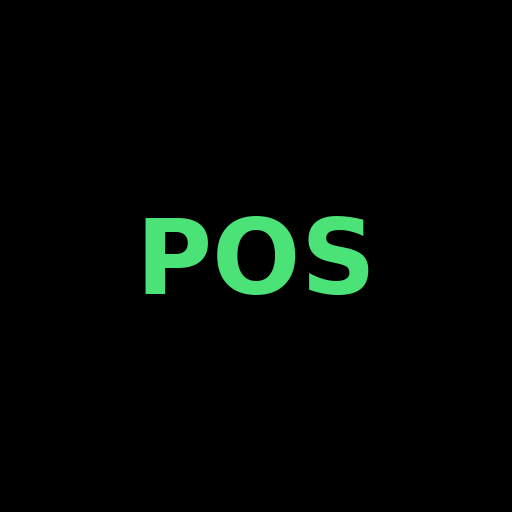
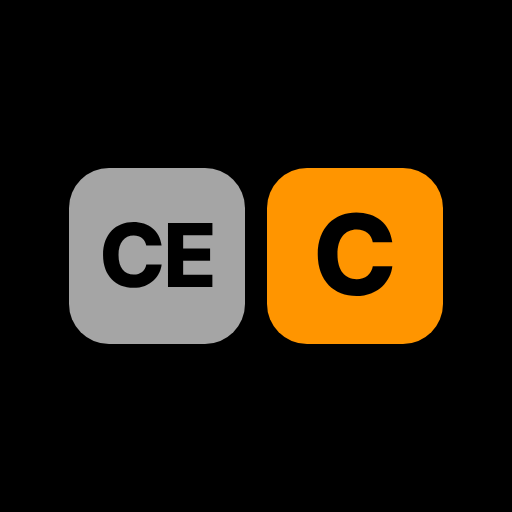
feat: nombre Cece Calc, ícono CE+C y copy simplificado
- Nombre: Cece Calc (título, manifest, iOS)
- Ícono nuevo: teclas CE (gris) y C (naranja) dentro de la zona segura maskable
- Copy: botón 'Recibido'; descripción del manifest sin tecnicismos
- Caché del SW a v7

Claude-Session: https://claude.ai/code/session_0143iFb2Kerjt7kfek1WfLzz

Changed region(s): [[0.125, 0.3125, 0.875, 0.6875]]

diff --git a/sw.js b/sw.js
@@ -1,5 +1,5 @@
 /* ============================================================
-   CECE — Service Worker
+   CECE CALC — Service Worker
    Estrategia: CACHE-FIRST ESTRICTA (100% offline / modo avión)
    ------------------------------------------------------------
    - install  : precarga todos los recursos locales de la app.
@@ -12,7 +12,7 @@
 /* IMPORTANTE: al cambiar cualquier archivo de la app hay que subir esta
    versión (v1 → v2 → …); con cache-first estricto el navegador seguirá
    sirviendo la copia antigua hasta que cambie el nombre de la caché. */
-const CACHE_NAME = 'pos-feria-v6';
+const CACHE_NAME = 'pos-feria-v7';
 
 /* Recursos locales imprescindibles. Todos relativos: funcionan tanto en
    file:// como servidos desde un subdirectorio (scope "./"). */
@@ -91,7 +91,7 @@ self.addEventListener('fetch', (event) => {
   event.respondWith(
     (async () => {
       if (url.origin !== self.location.origin || request.method !== 'GET') {
-        return new Response('Solicitud bloqueada: Cece funciona sin red.', {
+        return new Response('Solicitud bloqueada: Cece Calc funciona sin red.', {
           status: 503,
           statusText: 'Offline',
           headers: { 'Content-Type': 'text/plain; charset=utf-8' },

diff --git a/index.html b/index.html
@@ -3,7 +3,7 @@
 <head>
 <meta charset="utf-8"/>
 <meta content="width=device-width, initial-scale=1.0, maximum-scale=1.0, user-scalable=no, viewport-fit=cover" name="viewport"/>
-<title>Cece</title>
+<title>Cece Calc</title>
 
 <!-- PWA · 100% offline (sin CDNs, sin fuentes remotas) -->
 <link rel="manifest" href="manifest.json"/>
@@ -12,7 +12,7 @@
 <meta name="mobile-web-app-capable" content="yes"/>
 <meta name="apple-mobile-web-app-capable" content="yes"/>
 <meta name="apple-mobile-web-app-status-bar-style" content="black"/>
-<meta name="apple-mobile-web-app-title" content="Cece"/>
+<meta name="apple-mobile-web-app-title" content="Cece Calc"/>
 <meta name="format-detection" content="telephone=no"/>
 <link rel="icon" href="icons/icon-192.png" sizes="192x192" type="image/png"/>
 <link rel="apple-touch-icon" href="icons/icon-192.png"/>
@@ -74,7 +74,7 @@
 </button>
 </section>
 
-<button class="key key-fn bar-btn" id="btn-toggle-keypad" onclick="toggleKeypad()">Anotar pago recibido</button>
+<button class="key key-fn bar-btn" id="btn-toggle-keypad" onclick="toggleKeypad()">Recibido</button>
 
 <!-- Teclado numérico (superpuesto) -->
 <section aria-label="Teclado Numérico para Anotar Pago" class="keypad" hidden id="keypad-container">

diff --git a/app.js b/app.js
@@ -1,5 +1,5 @@
 /* ============================================================
-   CECE
+   CECE CALC
    Vanilla ES6+ · sin dependencias · estado solo en memoria
    ============================================================ */
 'use strict';
